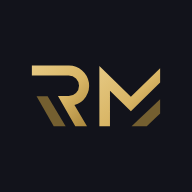
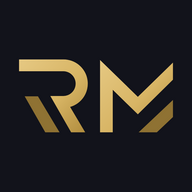
Melhora a nitidez dos ícones do painel

Changed region(s): [[0.0938, 0.2812, 0.4688, 0.7188], [0.5, 0.3125, 0.9062, 0.7188]]

diff --git a/client/index.html b/client/index.html
@@ -5,8 +5,9 @@
 <meta name="viewport" content="width=device-width, initial-scale=1.0">
 <meta name="robots" content="noindex, nofollow">
 <title>Hub Comercial — Núcleo de Saúde | Robson Menezes Advogados</title>
-<link rel="icon" href="icones/icone.svg" type="image/svg+xml">
-<link rel="icon" href="icones/favicon-32.png" sizes="32x32" type="image/png">
+<link rel="icon" href="icones/favicon-48.png" sizes="48x48" type="image/png">
+<link rel="icon" href="icones/favicon-96.png" sizes="96x96" type="image/png">
+<link rel="icon" href="icones/icone.svg" sizes="any" type="image/svg+xml">
 <link rel="apple-touch-icon" href="icones/apple-touch-icon.png">
 <!-- O painel fica atrás do Cloudflare Access: sem "use-credentials" o navegador
      busca o manifesto sem a sessão e recebe a tela de login no lugar dele. -->

diff --git a/client/documentacao.html b/client/documentacao.html
@@ -5,8 +5,9 @@
 <meta name="viewport" content="width=device-width, initial-scale=1.0">
 <meta name="robots" content="noindex, nofollow">
 <title>Metodologia de cálculo — Hub Comercial, Núcleo de Saúde</title>
-<link rel="icon" href="icones/icone.svg" type="image/svg+xml">
-<link rel="icon" href="icones/favicon-32.png" sizes="32x32" type="image/png">
+<link rel="icon" href="icones/favicon-48.png" sizes="48x48" type="image/png">
+<link rel="icon" href="icones/favicon-96.png" sizes="96x96" type="image/png">
+<link rel="icon" href="icones/icone.svg" sizes="any" type="image/svg+xml">
 <link rel="apple-touch-icon" href="icones/apple-touch-icon.png">
 <!-- O painel fica atrás do Cloudflare Access: sem "use-credentials" o navegador
      busca o manifesto sem a sessão e recebe a tela de login no lugar dele. -->
